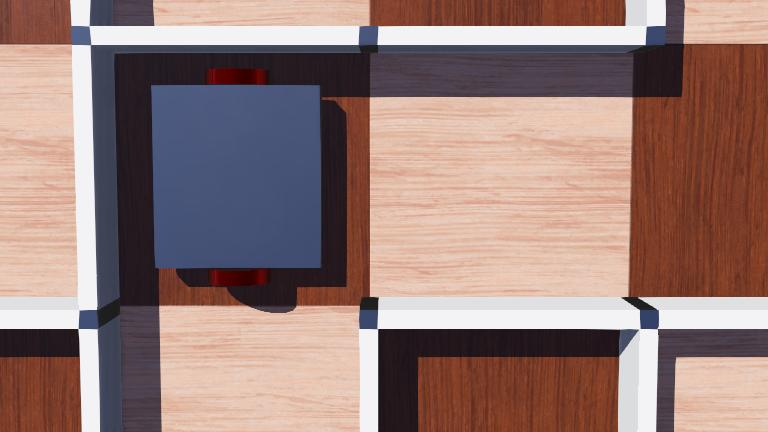
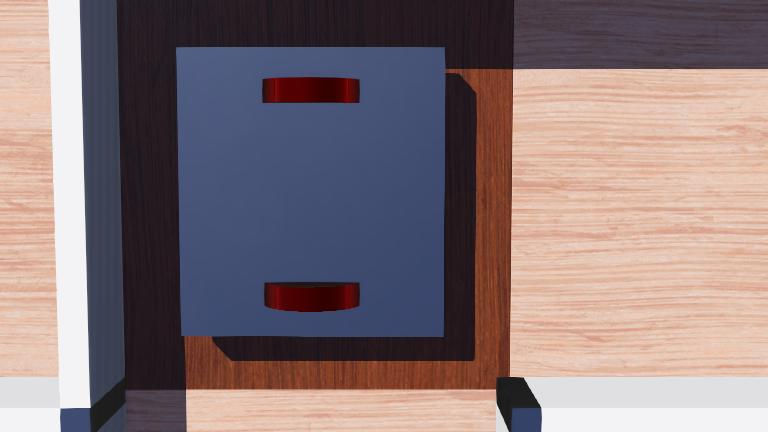
MazeRat model v2
- Changed MazeRat model in Webots to match the wheel spacing according to PCBv1.
- Changed the "ddistanceBetweenWheels" global variable in globals.cpp to match the actual wheel spacing.

diff --git a/controllers/MouseController/src/globals.cpp b/controllers/MouseController/src/globals.cpp
@@ -2,4 +2,4 @@
 
 SpatialData spatialData = {0,0,0,0};
 float wheelCircumference = 13.50884;
-float distanceBetweenWheels = 12.98;
+float distanceBetweenWheels = 9.38;
